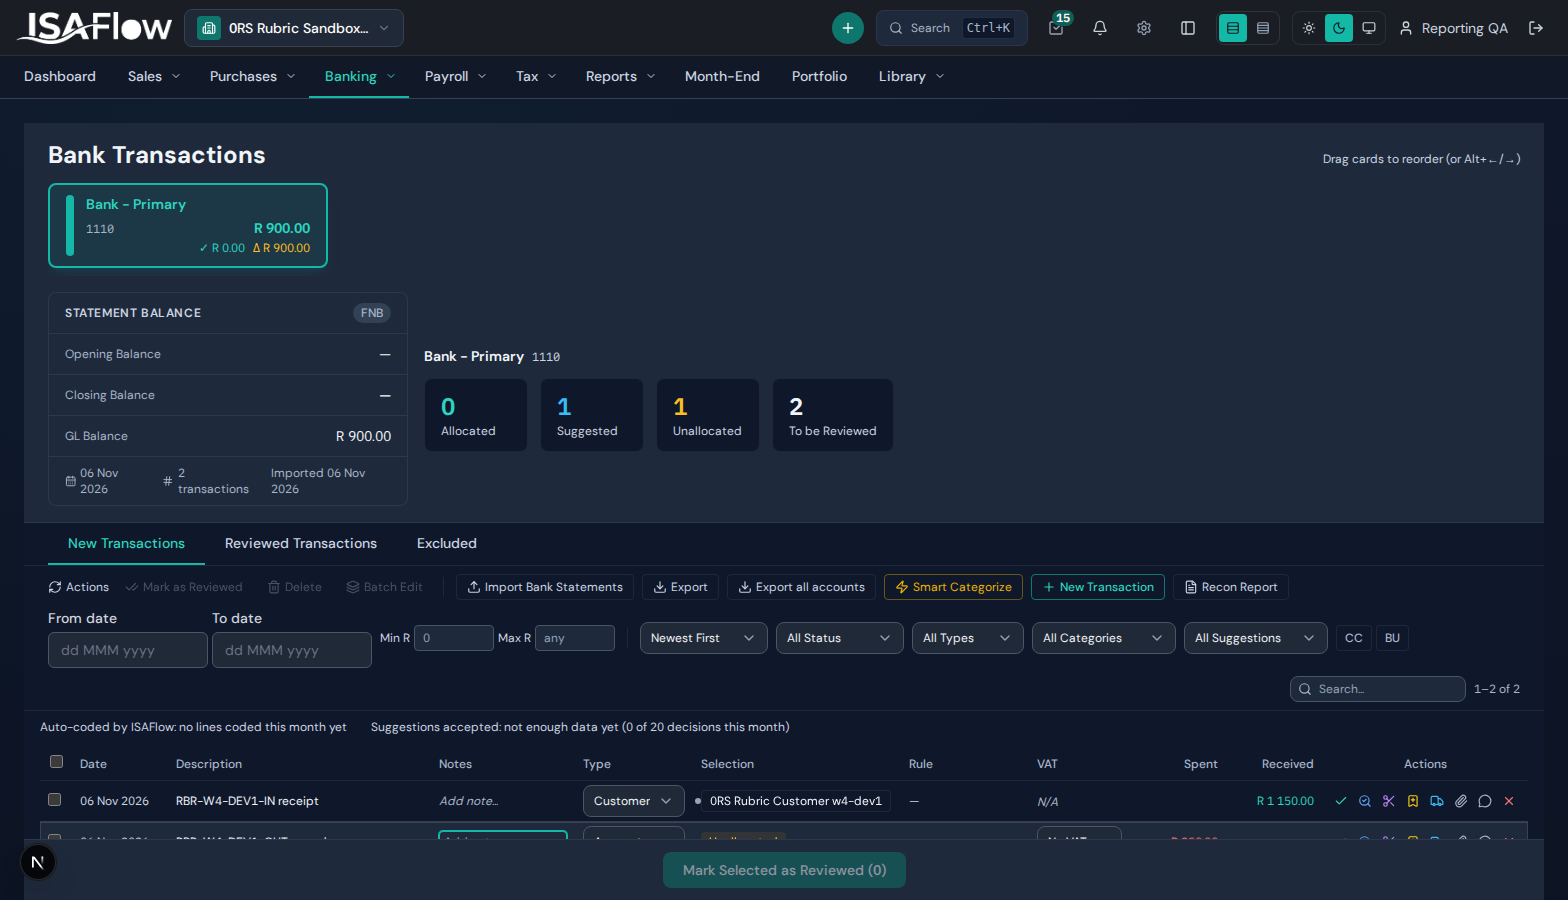
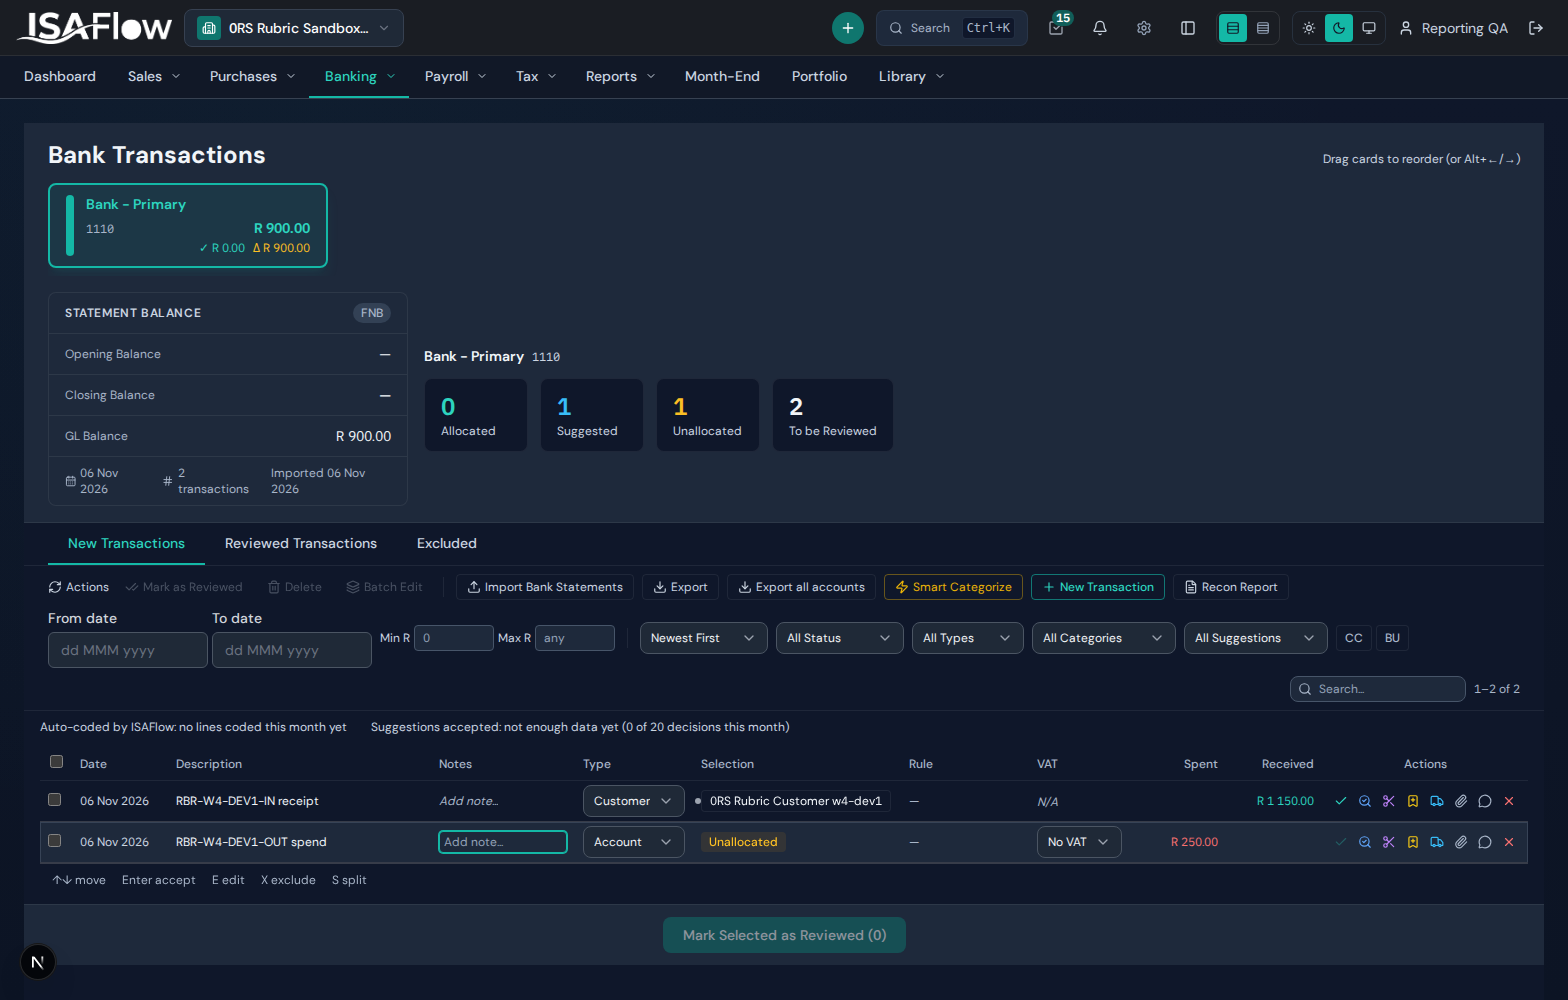
test+docs(bank-tx): hotkeys pressed on the focused row; notes-enter evidence re-shot

diff --git a/tests/unit/components/bankTxTableCallbacks.test.tsx b/tests/unit/components/bankTxTableCallbacks.test.tsx
@@ -128,33 +128,37 @@ describe('BankTxTable: keyboard row stream', () => {
     const p = tableProps();
     render(<BankTxTable {...p} />);
     const grid = screen.getByRole('group', { name: /Bank transactions/ });
+    // The grid takes the arrow that enters the stream; every later key is pressed where focus is, on the row.
+    const press = (key: string) => fireEvent.keyDown(document.activeElement!, { key });
     fireEvent.keyDown(grid, { key: 'ArrowDown' });
-    fireEvent.keyDown(grid, { key: 'Enter' });
+    press('Enter');
     expect(p.onAccept).toHaveBeenCalledTimes(1);
     expect(p.onAccept).toHaveBeenCalledWith('a');
-    fireEvent.keyDown(grid, { key: 'ArrowDown' });
-    fireEvent.keyDown(grid, { key: 'ArrowDown' });
-    fireEvent.keyDown(grid, { key: 'ArrowDown' });
-    fireEvent.keyDown(grid, { key: 'Enter' }); // row n: nothing chosen, so Enter edits instead
+    press('ArrowDown');
+    press('ArrowDown');
+    press('ArrowDown');
+    press('Enter'); // row n: nothing chosen, so Enter edits instead
     expect(p.onAccept).toHaveBeenCalledTimes(1);
     expect(screen.getByRole('textbox', { name: 'Search accounts' })).toHaveFocus();
-    fireEvent.keyDown(grid, { key: 'x' }); // typing in the search is not a hotkey
+    press('x'); // typing in the search is not a hotkey
     expect(p.onExclude).not.toHaveBeenCalled();
   });
   it('X excludes and S splits the focused row, once each; E opens the focused row\'s popover', () => {
     const p = tableProps();
     render(<BankTxTable {...p} />);
     const grid = screen.getByRole('group', { name: /Bank transactions/ });
+    // The grid takes the arrow that enters the stream; every later key is pressed where focus is, on the row.
+    const press = (key: string) => fireEvent.keyDown(document.activeElement!, { key });
     fireEvent.keyDown(grid, { key: 'ArrowDown' }); // row a
-    fireEvent.keyDown(grid, { key: 'x' });
+    press('x');
     expect(p.onExclude).toHaveBeenCalledTimes(1);
     expect(p.onExclude).toHaveBeenCalledWith('a');
-    fireEvent.keyDown(grid, { key: 'ArrowDown' });
-    fireEvent.keyDown(grid, { key: 'ArrowDown' }); // row c
-    fireEvent.keyDown(grid, { key: 's' });
+    press('ArrowDown');
+    press('ArrowDown'); // row c
+    press('s');
     expect(p.onSplit).toHaveBeenCalledTimes(1);
     expect(p.onSplit).toHaveBeenCalledWith('c');
-    fireEvent.keyDown(grid, { key: 'e' });
+    press('e');
     expect(screen.getByRole('button', { name: `Acme. Choose customer, ${row('c')}` })).toHaveAttribute('aria-expanded', 'true');
     expect(screen.getByRole('textbox', { name: 'Search customers' })).toHaveFocus();
     expect(p.onAccept).not.toHaveBeenCalled();
